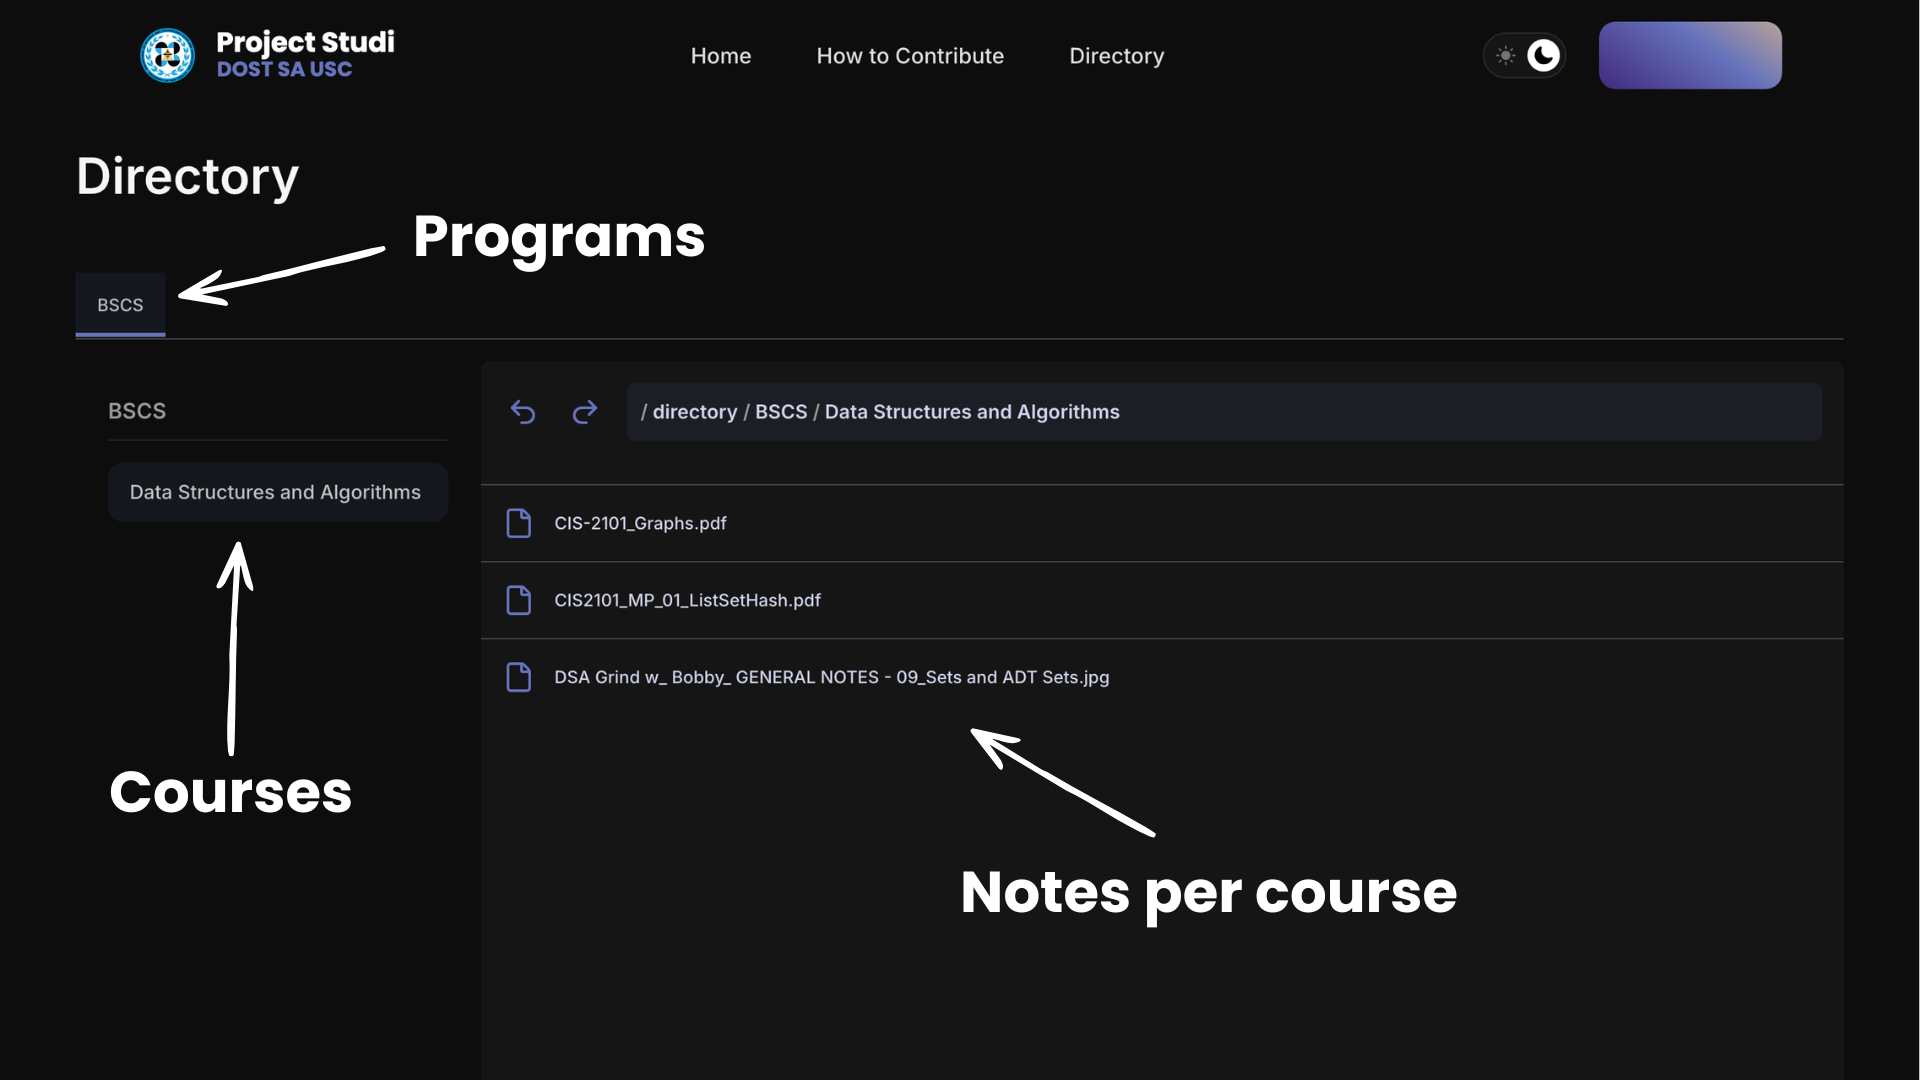
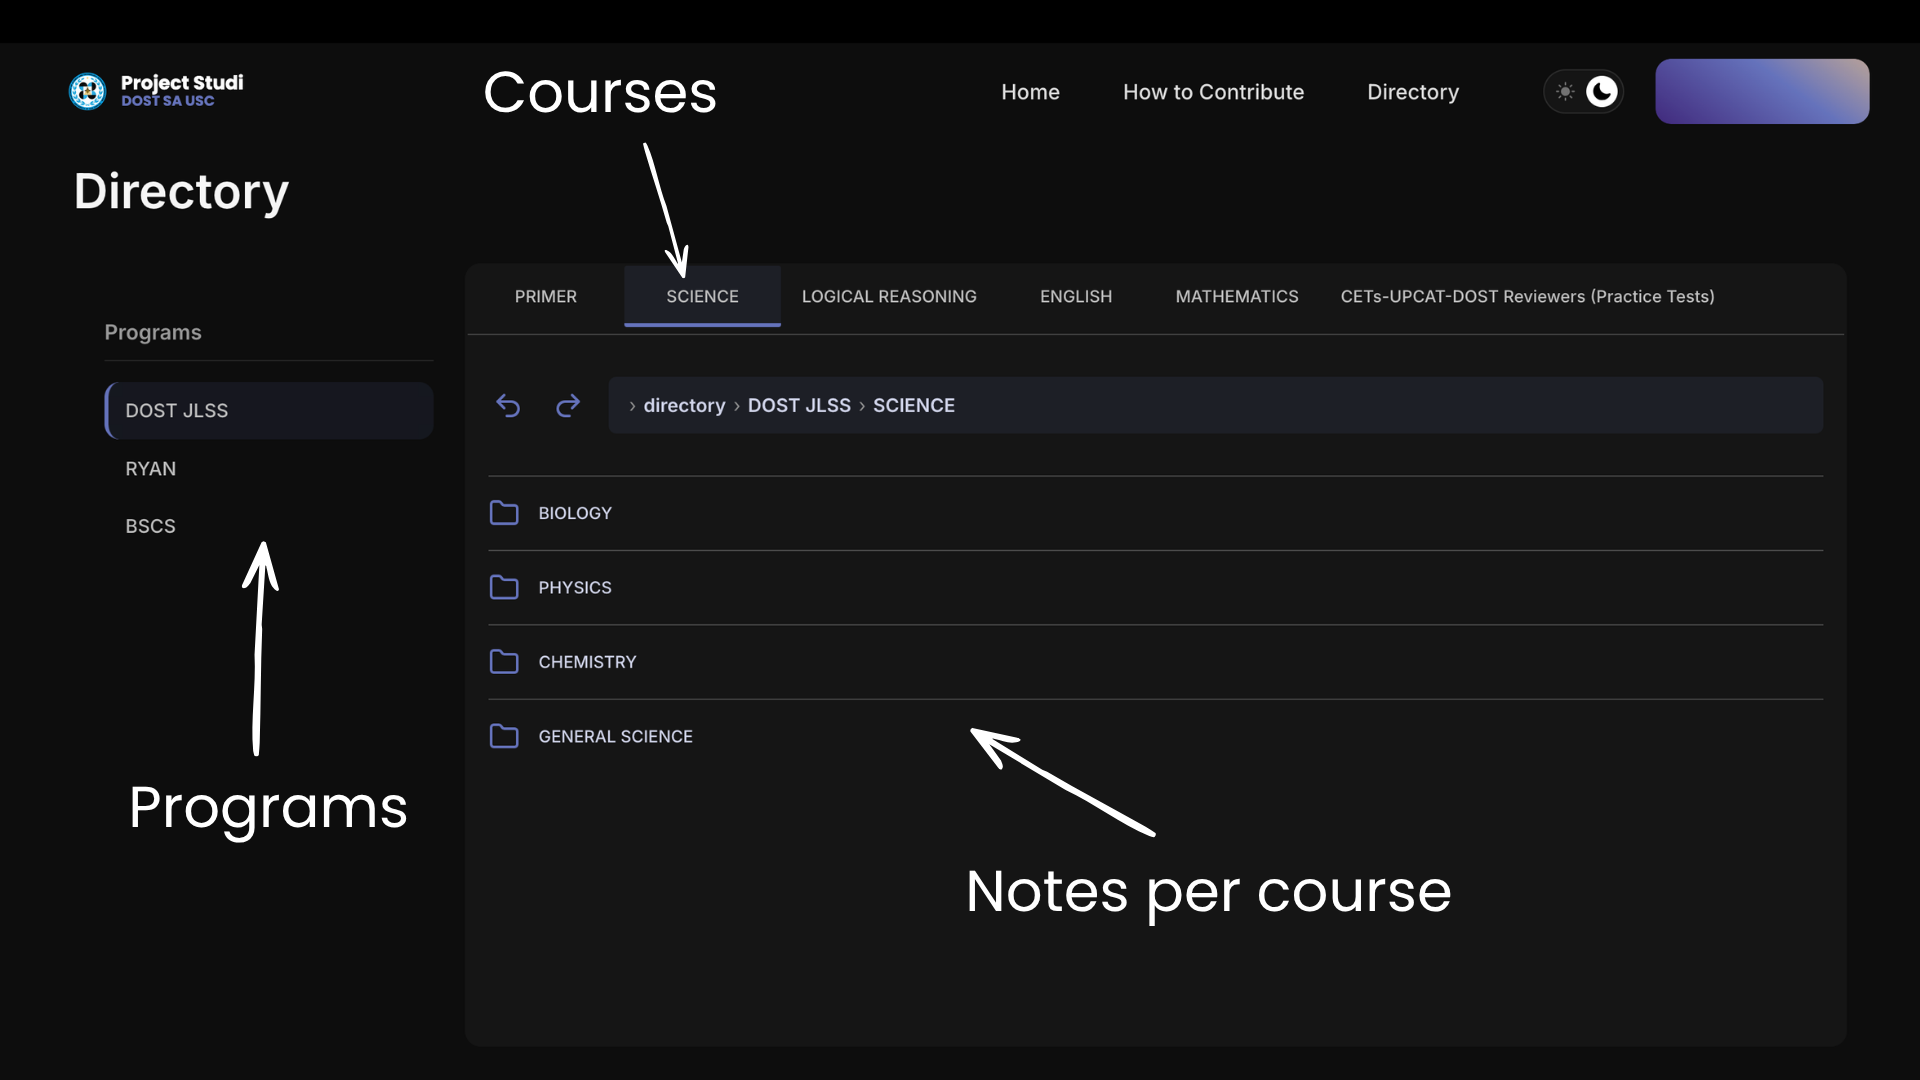
style: changed directory styling and updated homepage tutorial images

diff --git a/src/styles/global.css b/src/styles/global.css
@@ -125,10 +125,29 @@
     padding-block: 0 !important;
   }
 
+  header.has-sidebar {
+    display: flex !important;
+    align-items: center !important;
+    padding-block: 0 !important;
+  }
+
   nav.navbar {
     width: 100%;
     align-items: center !important;
     padding-left: 0px;
+    flex-wrap: nowrap !important;
+    justify-content: space-between !important;
+    gap: 0.5rem;
+  }
+
+  /* Keep logo and actions on the same row */
+  nav.navbar > div.order-0 {
+    flex-shrink: 0;
+  }
+
+  nav.navbar > .navbar-actions {
+    flex-shrink: 0;
+    gap: 0.25rem;
   }
 
   a.navbar-brand {

diff --git a/src/pages/directory/utils/directoryServer.ts b/src/pages/directory/utils/directoryServer.ts
@@ -9,8 +9,6 @@ const CACHE_TTL = 1000 * 60 * 5;
 export const fetchDirectory = async (id: string): Promise<fetchResult> => {
   const now = Date.now();
 
-  console.log(id);
-
   const cached = cache.get(id);
   if (cached && now < cached.expiry) {
     console.log(`[Cache Hit] Serving ${id} from memory`);
